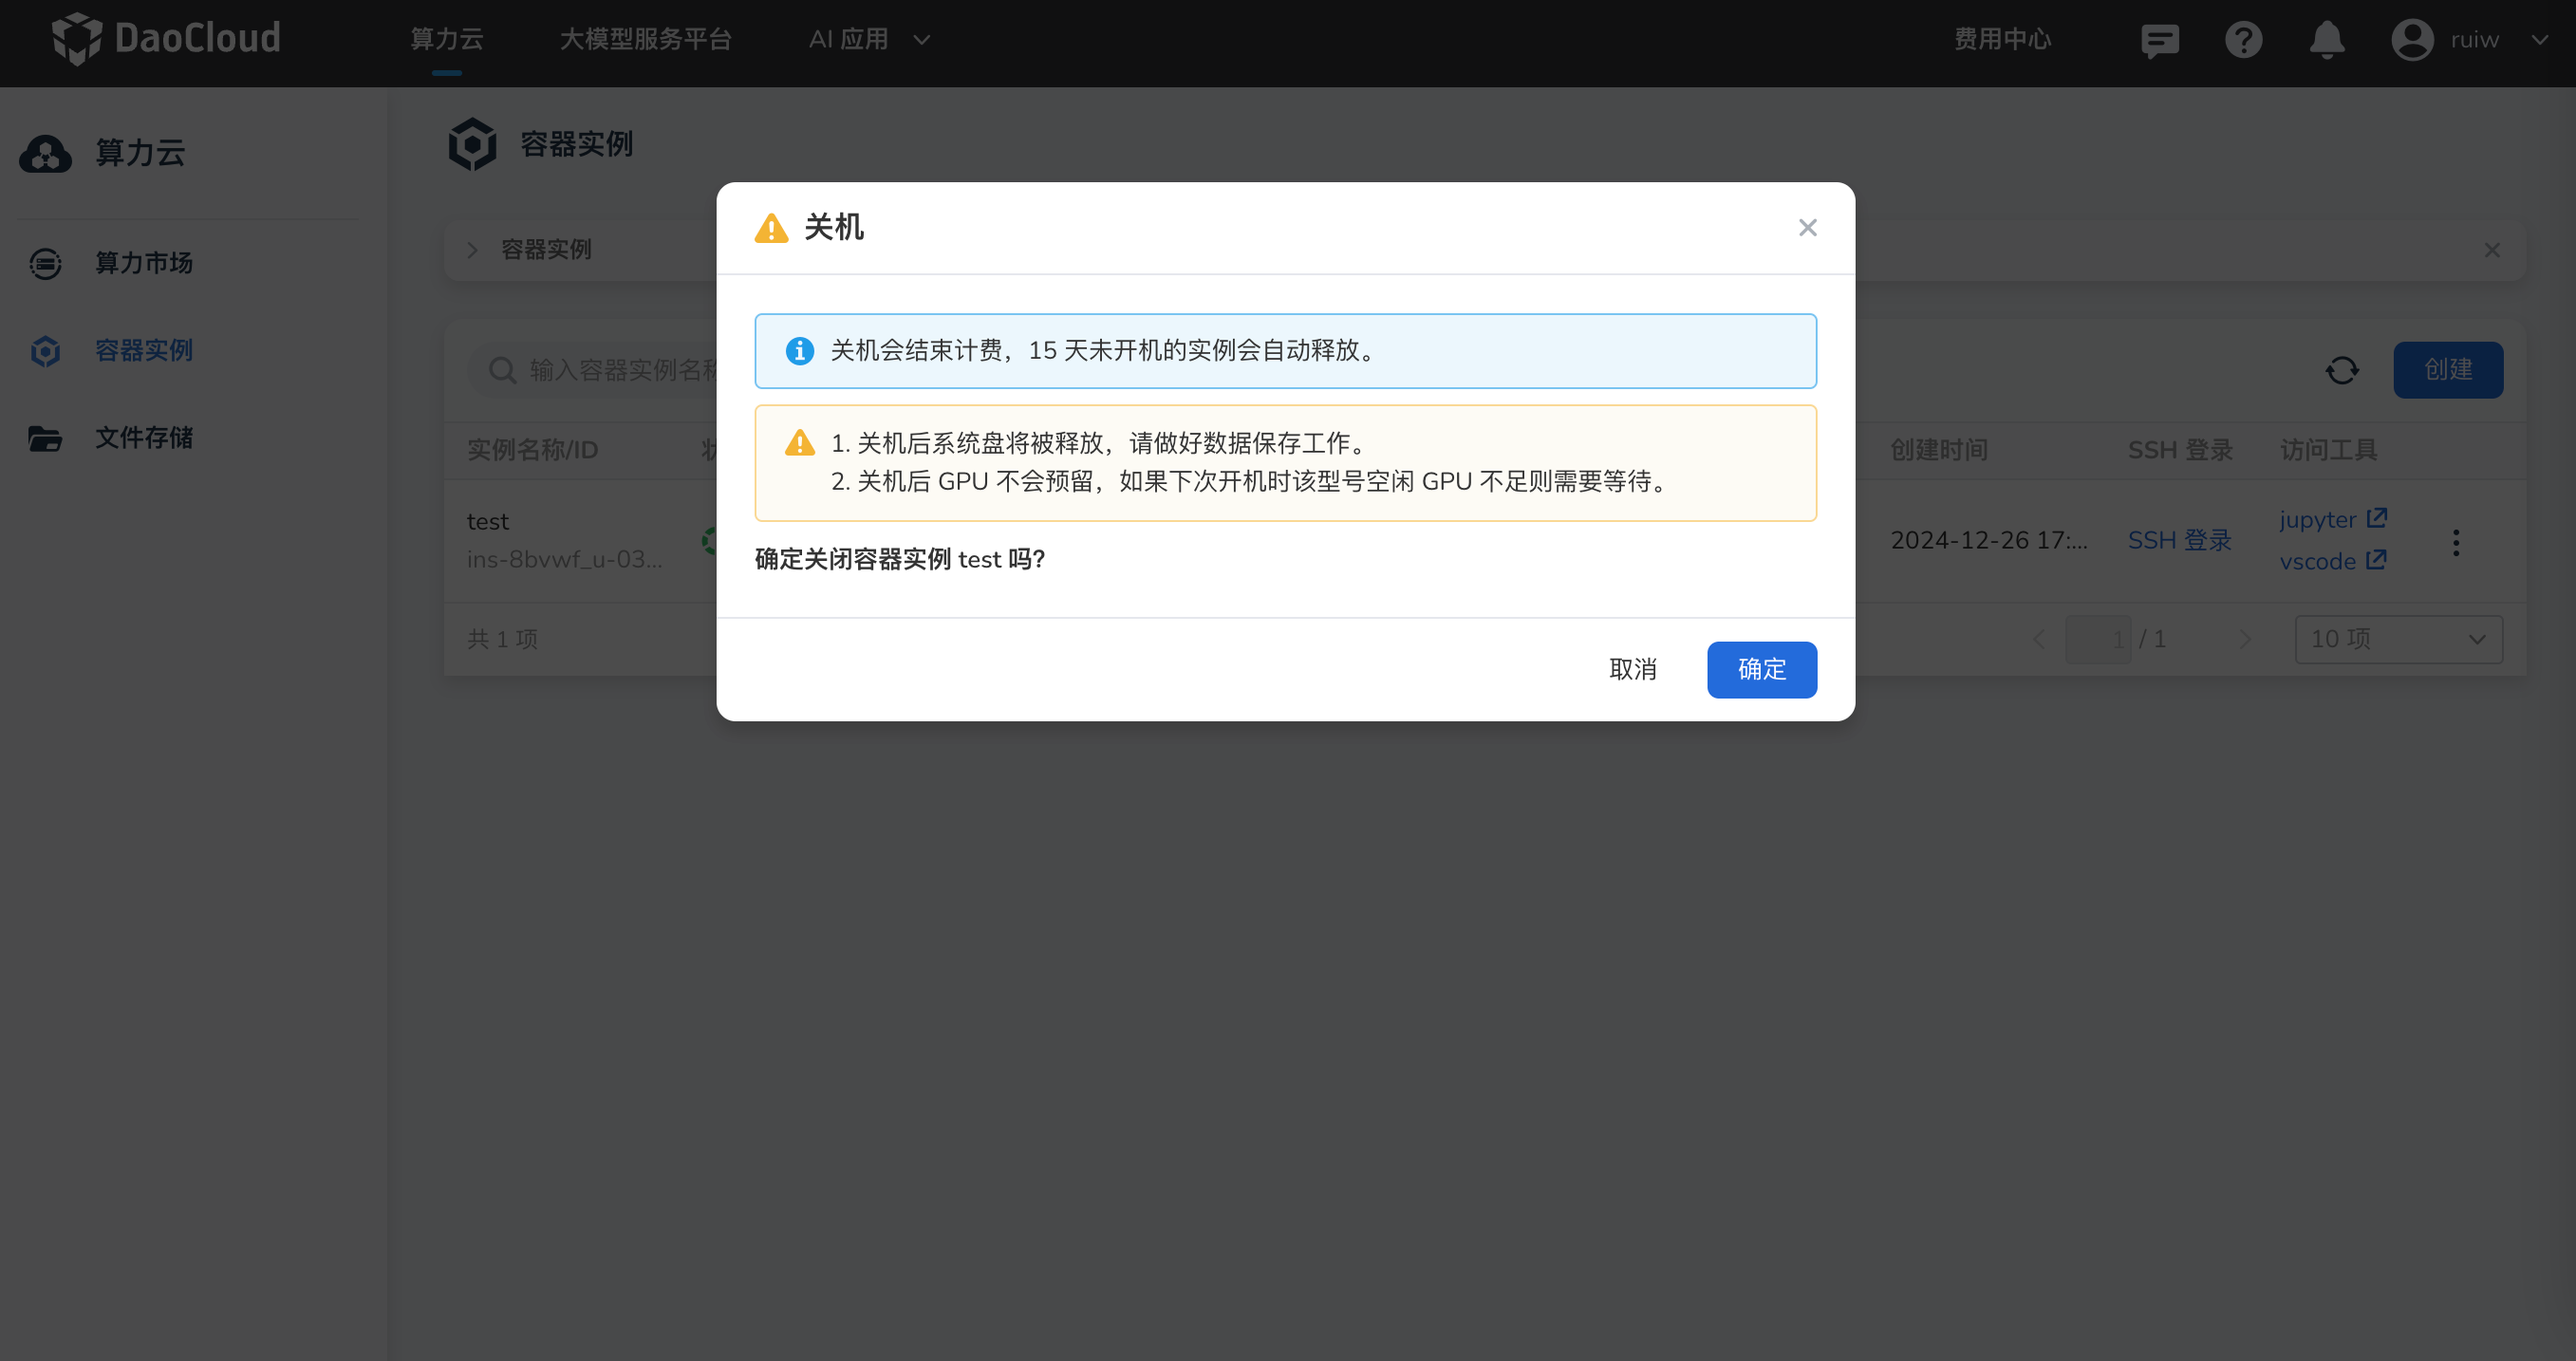
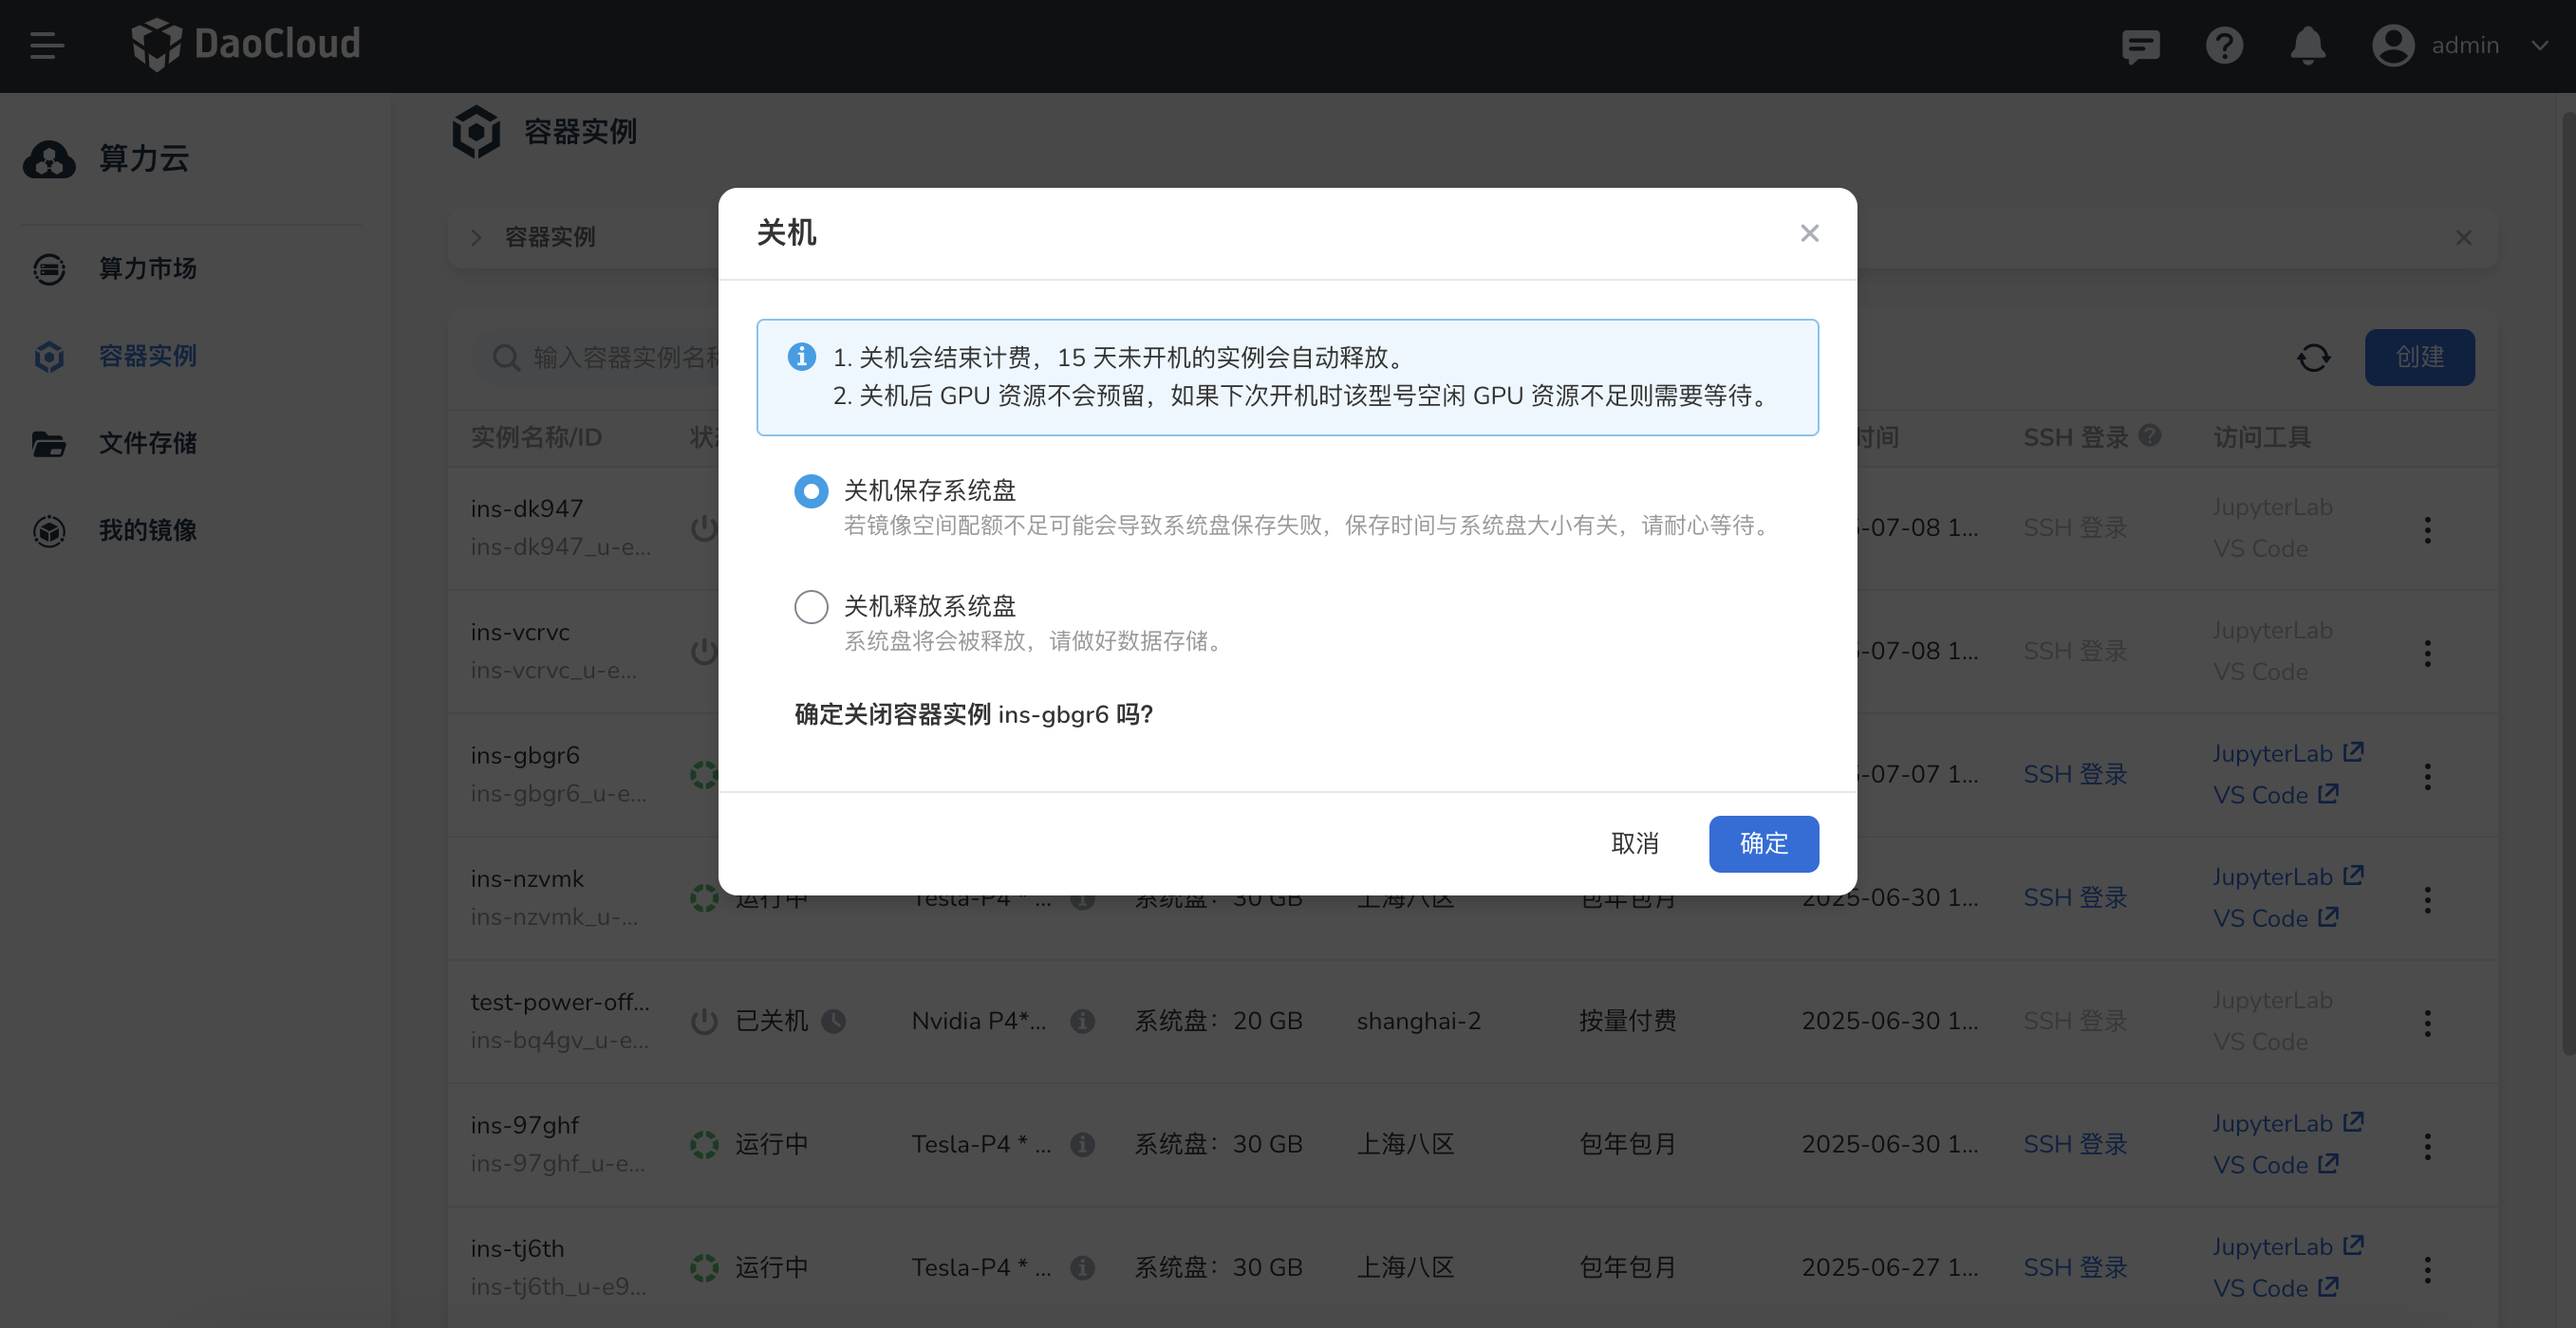
update the poweron/poweroff of instance

diff --git a/docs/zh/docs/zestu/instance-on-off.md b/docs/zh/docs/zestu/instance-on-off.md
@@ -9,19 +9,19 @@
 操作步骤如下：
 
 1. 登录 d.run，进入 **算力云** -> **容器实例** ，选择一个运行中的实例，
-   点击列表右侧的 **┇** ，在下拉列表中选择 **关机**
+   点击列表右侧的 **┇** ，在下拉列表中选择 **关机** 。
 
     ![关机1](./images/poweroff1.png)
 
-1. 在弹出的提示框中，仔细阅读关机须知后，点击 **确定**
+1. 在弹出的提示框中，仔细阅读关机须知后，选择是否保存系统盘，然后点击 **确定** 。
 
     ![关机2](./images/poweroff2.png)
 
 !!! note
 
-    - 当前实例关机暂不支持保存系统盘，请做好数据备份。预计将在2025年2月份支持。
     - 15 天未开机的实例会自动释放。
     - 关机后 GPU 资源不会预留，如果下次开机时该型号空闲的 GPU 资源不足则需要等待。
+    - 若镜像空间配额不足可能会导致系统盘保存失败，请确保镜像空间配额充足。
 
 ## 开机
 
@@ -30,7 +30,7 @@
 操作步骤如下：
 
 1. 登录 d.run，进入 **算力云** -> **容器实例** ，选择一个运行中的实例，
-   点击列表右侧的 **┇** ，在下拉列表中选择 **启动实例**
+   点击列表右侧的 **┇** ，在下拉列表中选择 **启动实例** 。
 
     ![开机1](./images/poweron1.png)
 
@@ -40,5 +40,5 @@
 
 !!! note
 
-    - 容器实例处于排队中或者启动中时不计费，运行状态下开始计费
-    - 容器实例不会主动刷新状态，需手动刷新查看容器实例的真实状态
+    - 容器实例处于排队中或者启动中时不计费，运行状态下开始计费。
+    - 容器实例不会主动刷新状态，需手动刷新查看容器实例的真实状态。
